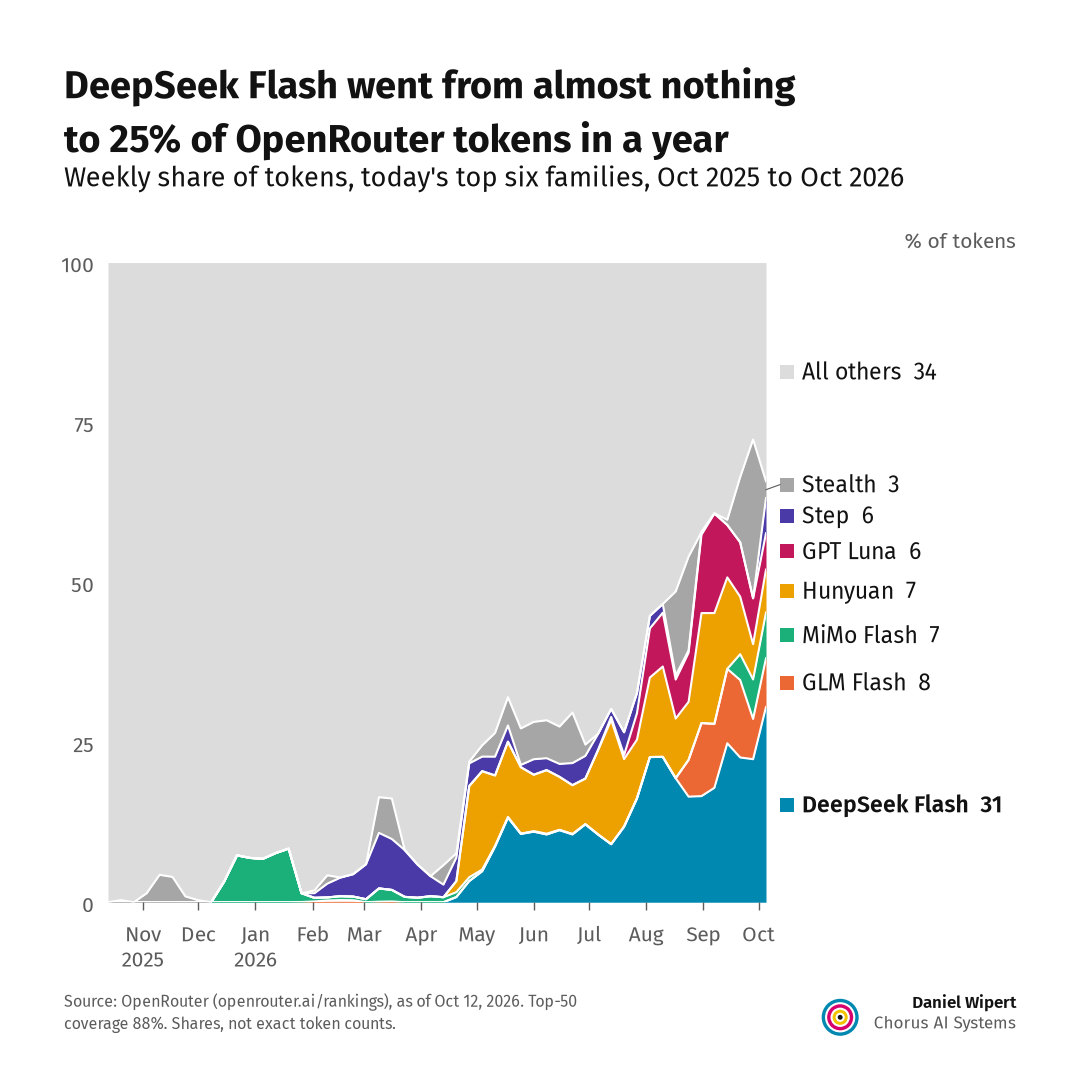
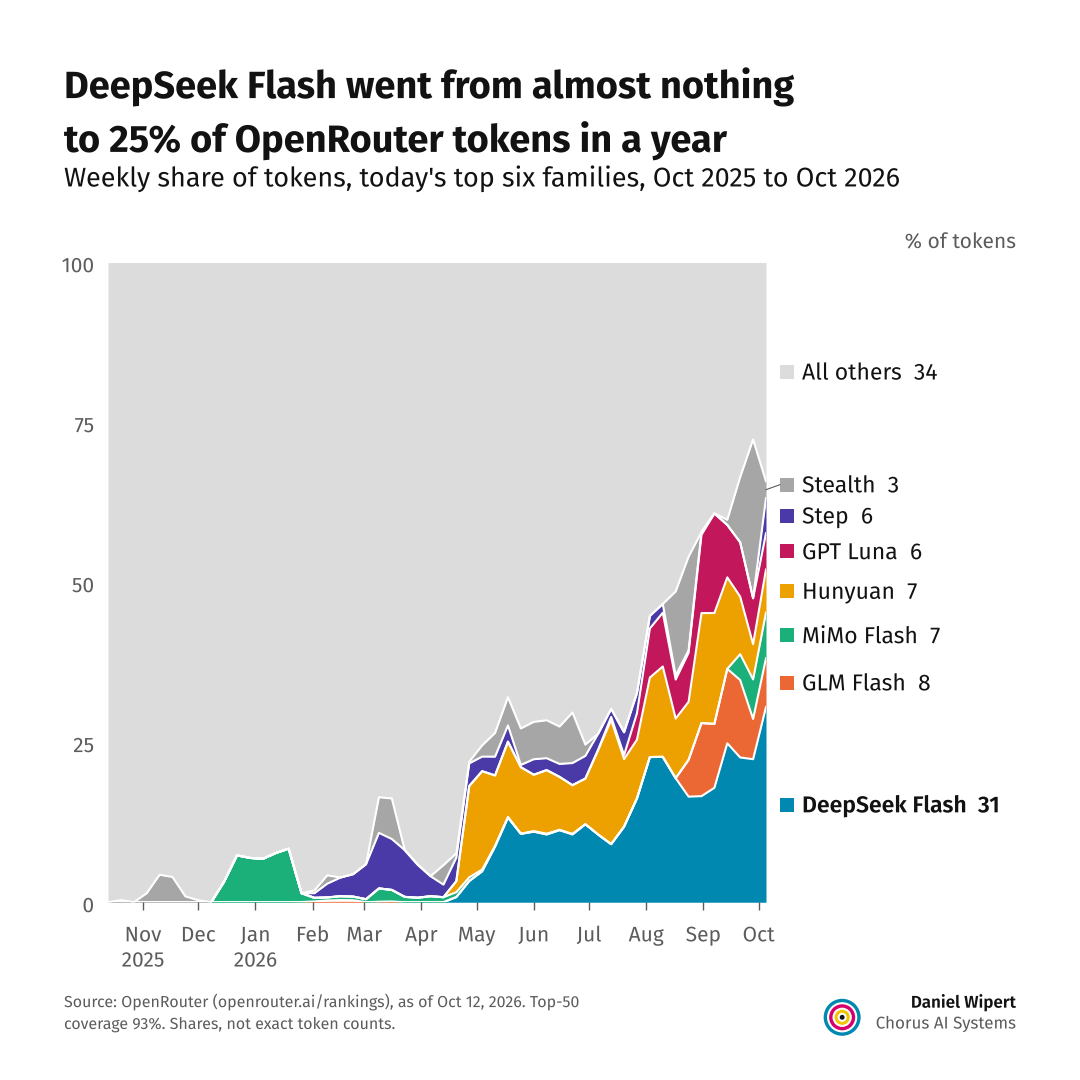
Label Step 5 Preview and rebuild 2026-W41 (now READY TO POST)
stepfun/step-5-preview-20261008: open weights, Large. StepFun posted the
weights at huggingface.co/stepfun-ai/Step-5-Preview on 2026-10-15
(604.3B total parameters, 27B active MoE). Rebuilt W41 from the saved
data with run_weekly.py --no-fetch; every check now passes.

Claude-Session: https://claude.ai/code/session_019LmT7heBAUpDd9P6L5tRj1

diff --git a/output/2026-W41/run_report.md b/output/2026-W41/run_report.md
@@ -1,22 +1,22 @@
-# NOT READY TO POST (2026-W41)
+# READY TO POST (2026-W41)
 
-- **FAIL** Labels complete: Unknown weights: 0.45% of top-50 tokens, size: 0.45% of top-50 tokens. Fill in registry/models.csv for: stepfun/step-5-preview-20261008
+- **PASS** Labels complete: Zero unknown values on company, weights, country, family, release_date, price_tier, reasoning, input_type, size
 - **PASS** Sources complete: Every label has a source
 - **PASS** Same input, same output: Re-aggregating the same data gave identical numbers
-- **PASS** Long tail disclosed: Top-50 coverage for the footer: 88.3%
-- **PASS** Coverage: Labeled tokens are 88.3% of all tokens in the latest week (warn under 80%)
-- **PASS** Big jump: Open share moved +1.8 points in the latest week (warn over 10)
+- **PASS** Long tail disclosed: Top-50 coverage for the footer: 93.4%
+- **PASS** Coverage: Labeled tokens are 93.4% of all tokens in the latest week (warn under 80%)
+- **PASS** Big jump: Open share moved +3.3 points in the latest week (warn over 10)
 - **PASS** History restated: No past week's share moved more than 1 point
 - [ ] Dan: on the first Monday of the month, the top 5 match openrouter.ai/rankings (token totals within 1%)
 
 ## New models this week
 
 - anthropic/claude-haiku-5.5-20261007: Anthropic, closed (rule: labs.csv default for anthropic)
-- stepfun/step-5-preview-20261008: StepFun, no weights (no source)
+- stepfun/step-5-preview-20261008: StepFun, open (manual: https://huggingface.co/stepfun-ai/Step-5-Preview (weights on HF, posted 2026-10-15))
 
 ## Blank registry fields
 
-- stepfun/step-5-preview-20261008: weights, size
+- None
 
 ## Low-confidence labels to re-check monthly
 

diff --git a/output/2026-W41/caption.md b/output/2026-W41/caption.md
@@ -4,9 +4,9 @@ Templates are in captions/. Edit the wording before posting.
 
 ## weights_share
 
-Open-weight models now carry 74% of tokens on OpenRouter.
+Open-weight models now carry 75% of tokens on OpenRouter.
 
-That's up 1.8 points since last week. Open-weight models passed 50% in the week of Apr 27 and have stayed above it since. The peak in the last 52 weeks was 77%.
+That's up 3.3 points since last week. Open-weight models passed 50% in the week of Apr 27 and have stayed above it since. The peak in the last 52 weeks was 77%.
 
 What's driving it: DeepSeek, Z.ai and Xiaomi lead the open-weight models this week.
 
